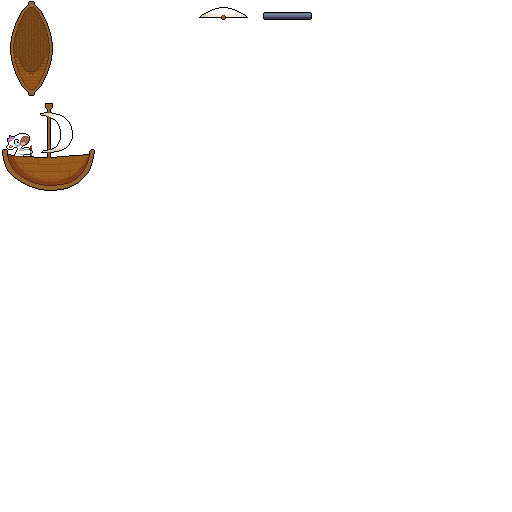
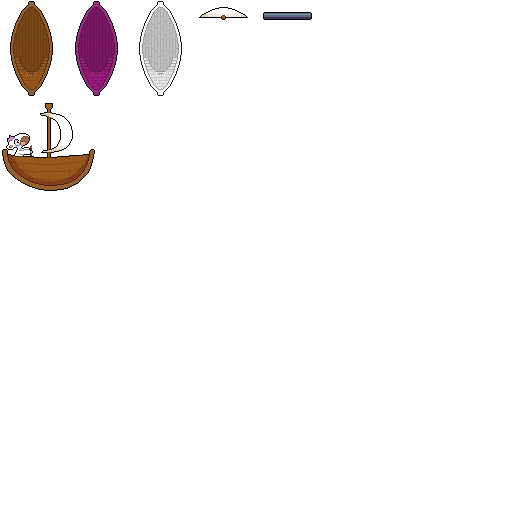
edited ship class now has custom ship options

Changed region(s): [[0.125, 0.0, 0.375, 0.1875]]

diff --git a/src/org/titlepending/entities/Ship.java b/src/org/titlepending/entities/Ship.java
@@ -1,4 +1,110 @@
 package org.titlepending.entities;
 
-public class Ship {
+import jig.Entity;
+import jig.Vector;
+import jig.ResourceManager;
+import org.newdawn.slick.Animation;
+import org.newdawn.slick.SpriteSheet;
+import org.titlepending.client.Client;
+
+public class Ship extends Entity {
+    protected int healthcount = 100;
+    protected Vector velocity;
+    protected float direction;
+    protected Animation ship;
+    protected Animation sail;
+    protected Animation cannon;
+    protected int stats[] = new int[4];//hull,sail,cannon,crew... Get these numbers from another state
+    protected boolean isDead = false;
+
+    public Ship(final float x, final float y, final float vx, final float vy){
+        super(x,y);
+        SpriteSheet Shipsprites = ResourceManager.getSpriteSheet(Client.SHIP_RSC,64,96);
+        SpriteSheet Sailsprites = ResourceManager.getSpriteSheet(Client.SHIP_RSC,64,32);
+        stats[0] = 0;
+        stats[1] = 0;
+        stats[2] = 0;
+        stats[3] = 4;
+        //these will change depending on what is selected most likely handled elsewhere
+        if(stats[0]==0) {
+            ship = new Animation(Shipsprites, 0, 0, 0, 0, true, 1000, true);
+        }
+        else if(stats[0]==1){
+            ship = new Animation(Shipsprites, 1, 0, 1, 0, true, 1000, true);
+        }
+        else{
+            ship = new Animation(Shipsprites, 2, 0, 2, 0, true, 1000, true);
+        }
+        sail = new Animation(Sailsprites,3,0,3,0,true,1000,true);
+        cannon = new Animation(Sailsprites,4,0,4,0,true,1000,true);
+
+        if(stats[2]==0){
+            addAnimation(cannon,new Vector(0,0));
+        }
+        else if(stats[2]==1){
+            addAnimation(cannon,new Vector(0,16));
+            addAnimation(cannon,new Vector(0,-16));
+        }
+        else {
+            addAnimation(cannon, new Vector(0, 16));
+            addAnimation(cannon, new Vector(0, -16));
+            addAnimation(cannon, new Vector(0, 0));
+        }
+        addAnimation(ship);
+        if(stats[1] == 0){
+            addAnimation(sail, new Vector(0, -8));
+        }
+        else if(stats[2] == 1){
+            addAnimation(sail, new Vector(0, 10));
+            addAnimation(sail, new Vector(0, -8));
+        }
+        else {
+            addAnimation(sail, new Vector(0, 10));
+            addAnimation(sail, new Vector(0, -8));
+            addAnimation(sail, new Vector(0, -26));
+        }
+
+    }
+    public void setVelocity(final Vector m) {
+        velocity = m;
+    }
+    public void fire(Ship myship){
+        //give birth to cannon balls
+        //fire them perpendicular to ships velocity
+    }
+    public void isHit(Entity object,Ship target){
+        //if object is cannon ball take x damage
+        //takeDamage(target, x)
+        //else if object is ship check velocity of ship object
+        //takedamage(target,dmg based off of object speed)
+        //takedamage(object, based off of targets speed)
+    }
+    public void takeDamage(Ship target,int dmg){
+        target.healthcount-=dmg;
+        if (target.healthcount<=0){
+            //ur dead bro
+
+        }
+    }
+    public void rotateship(Ship target,int direction){
+        //direction 0 = left, 1 = right
+        if(direction==0){
+            target.rotate(-1.0);
+            //velocity direction calculation
+        }
+        else if(direction==1){
+            target.rotate(1.0);
+            //velocity direction calculation
+        }
+    }
+    public void update(final int delta) {
+        if(isDead==false) {//they are still alive
+            //translate(velocity.scale(delta));
+        }
+        else {//they died
+        }
+       //
+
+    }
+
 }

diff --git a/src/org/titlepending/client/states/PlayingState.java b/src/org/titlepending/client/states/PlayingState.java
@@ -1,16 +1,19 @@
 package org.titlepending.client.states;
 
+import org.newdawn.slick.BasicGame;
 import org.newdawn.slick.GameContainer;
 import org.newdawn.slick.Graphics;
 import org.newdawn.slick.SlickException;
 import org.newdawn.slick.state.BasicGameState;
 import org.newdawn.slick.state.StateBasedGame;
 import org.titlepending.client.Client;
+import org.titlepending.entities.Ship;
 
 public class PlayingState extends BasicGameState {
+    Ship player;
     public void init(GameContainer container, StateBasedGame game)
             throws SlickException {
-
+            player = new Ship(250,250,0,0);
     }
 
     public void enter(GameContainer container, StateBasedGame game)
@@ -20,11 +23,12 @@ public class PlayingState extends BasicGameState {
 
     public void render(GameContainer container, StateBasedGame game,
                        Graphics g) throws SlickException{
-
+        player.render(g);
     }
 
     public void update(GameContainer container, StateBasedGame game,
                        int delta) throws SlickException{
+        player.update(delta);
 
     }
 

diff --git a/src/org/titlepending/client/menus/MenuState.java b/src/org/titlepending/client/menus/MenuState.java
@@ -62,7 +62,8 @@ public class MenuState extends BaseMenuState {
             switch(selection){
                 case PLAY:
                     ResourceManager.getMusic(Client.TITLE_MUSIC).stop();
-                    client.enterState(Client.CONNECTSTATE,new EmptyTransition(), new FadeInTransition());
+                    //client.enterState(Client.CONNECTSTATE,new EmptyTransition(), new FadeInTransition());
+                    client.enterState(Client.PLAYINGSTATE,new EmptyTransition(), new FadeInTransition());
                     break;
                 case OPTIONS:
                     client.enterState(Client.OPTIONSMENUSTATE,new EmptyTransition(), new FadeInTransition());
